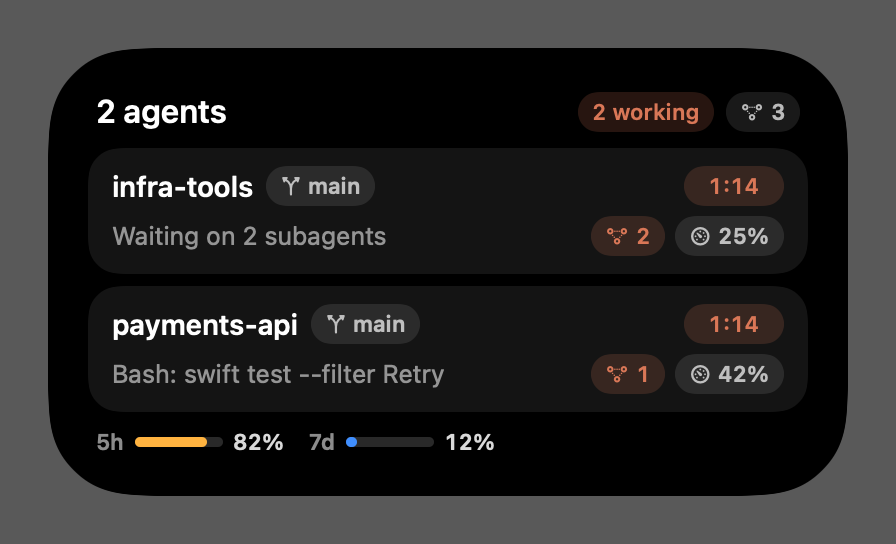
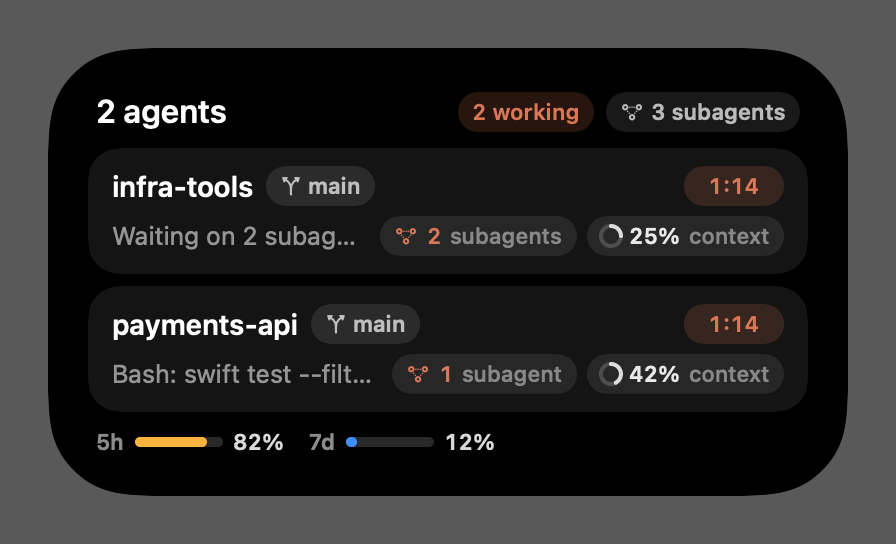
Labelled stat pills on the island; tooltips in the Sessions window
- Island stats are labelled pills (ring + "33% context", "2 subagents",
  "+12 −3 lines", "3 subagents" in the header), since Live Activities get
  no hover.
- Sessions window explains context, tokens, cost, lines, subagents and
  tool calls in tooltips with exact numbers.

diff --git a/Shared/IslandViews.swift b/Shared/IslandViews.swift
@@ -208,6 +208,53 @@ extension Badge where Label == Text {
     }
 }
 
+/// A labelled stat pill: an optional glyph, the value in bright type and what it measures in dim type, so the island
+/// explains itself without hover (Live Activities get no pointer events).
+struct Stat<Glyph: View, Value: View>: View {
+    var label: String
+    var tint: Color? = nil
+    @ViewBuilder var glyph: Glyph
+    @ViewBuilder var value: Value
+    var body: some View {
+        HStack(spacing: 4) {
+            glyph.foregroundStyle(tint ?? Color.white.opacity(0.6))
+            value.font(.system(size: 11, weight: .semibold)).foregroundStyle(tint ?? Color.white.opacity(0.9))
+            Text(label).font(.system(size: 11, weight: .medium)).foregroundStyle(Color.white.opacity(0.45))
+        }
+        .monospacedDigit().lineLimit(1)
+        .padding(.horizontal, 7).padding(.vertical, 3)
+        .background(Capsule().fill(Color.white.opacity(0.08)))
+        .fixedSize()
+    }
+}
+
+extension Stat where Value == Text {
+    init(value: String, label: String, tint: Color? = nil, @ViewBuilder glyph: () -> Glyph) {
+        self.init(label: label, tint: tint, glyph: glyph) { Text(value) }
+    }
+}
+
+extension Stat where Glyph == EmptyView {
+    init(label: String, tint: Color? = nil, @ViewBuilder value: () -> Value) {
+        self.init(label: label, tint: tint, glyph: { EmptyView() }, value: value)
+    }
+}
+
+/// A tiny progress ring, used for context-window fill.
+struct Ring: View {
+    let fraction: Double
+    let tint: Color
+    var size: CGFloat = 10
+    var body: some View {
+        ZStack {
+            Circle().stroke(Color.white.opacity(0.18), lineWidth: 2)
+            Circle().trim(from: 0, to: max(0.04, min(1, fraction))).stroke(tint, style: StrokeStyle(lineWidth: 2, lineCap: .round))
+                .rotationEffect(.degrees(-90))
+        }
+        .frame(width: size, height: size)
+    }
+}
+
 // MARK: - The featured request
 
 /// The most urgent request: who asks and what kind, the question with its choices or the command, and the answer
@@ -353,19 +400,26 @@ struct SessionRow: View {
                 Button(intent: MarkReviewedIntent(sessionId: row.id)) { Pill(title: "Reviewed", height: 24, stretch: false) }
             case .working, .idle:
                 if row.subagentTotal > 0 {
-                    Badge(
-                        "\(row.subagents > 0 ? row.subagents : row.subagentTotal)",
-                        tint: row.subagents > 0 ? Island.coral : nil, icon: "point.3.connected.trianglepath.dotted")
+                    let running = row.subagents > 0
+                    Stat(
+                        value: "\(running ? row.subagents : row.subagentTotal)",
+                        label: running ? (row.subagents == 1 ? "subagent" : "subagents") : "done",
+                        tint: running ? Island.coral : nil
+                    ) {
+                        Image(systemName: "point.3.connected.trianglepath.dotted").font(.system(size: 9, weight: .bold))
+                    }
                 }
                 if row.linesAdded + row.linesRemoved > 0 {
-                    Badge {
+                    Stat(label: "lines") {
                         Text("+\(row.linesAdded)").foregroundStyle(Island.green)
                             + Text(" −\(row.linesRemoved)").foregroundStyle(Island.red)
                     }
                 }
-                Badge(
-                    "\(Int(row.context * 100))%", tint: row.context > 0.65 ? Island.context(row.context) : nil,
-                    icon: "gauge.with.dots.needle.33percent")
+                // Neutral until the window is filling up (amber > 65 %, red > 85 %).
+                let full = row.context > 0.65
+                Stat(value: "\(Int(row.context * 100))%", label: "context", tint: full ? Island.context(row.context) : nil) {
+                    Ring(fraction: row.context, tint: full ? Island.context(row.context) : Color.white.opacity(0.8))
+                }
             }
         }
         .buttonStyle(.plain)
@@ -449,7 +503,9 @@ struct IslandTitle: View {
             if state.needsYou > 0 { Badge("\(state.needsYou) need\(state.needsYou == 1 ? "s" : "") you", tint: Island.amber) }
             if state.working > 0 { Badge("\(state.working) working", tint: Island.coral) }
             if state.subagentsRunning > 0 {
-                Badge("\(state.subagentsRunning)", icon: "point.3.connected.trianglepath.dotted")
+                Badge(
+                    "\(state.subagentsRunning) subagent\(state.subagentsRunning == 1 ? "" : "s")",
+                    icon: "point.3.connected.trianglepath.dotted")
             }
         }
     }

diff --git a/App/Views.swift b/App/Views.swift
@@ -312,9 +312,12 @@ struct SessionCard: View {
             VStack(alignment: .trailing, spacing: 1) {
                 if model.showCost {
                     Text(Fmt.cost(s.costUSD)).font(.system(size: 11.5, weight: .semibold))
-                    if !compact { Text("\(Fmt.tokens(s.usage.work)) tok").font(.system(size: 10.5)).foregroundStyle(.secondary) }
+                        .help("Estimated cost of this session at API prices.")
+                    if !compact {
+                        Text("\(Fmt.tokens(s.usage.work)) tok").font(.system(size: 10.5)).foregroundStyle(.secondary).help(tokenHelp)
+                    }
                 } else {
-                    Text("\(Fmt.tokens(s.usage.work)) tok").font(.system(size: 11.5, weight: .semibold))
+                    Text("\(Fmt.tokens(s.usage.work)) tok").font(.system(size: 11.5, weight: .semibold)).help(tokenHelp)
                 }
                 // This session's own subagents (the header carries the global count).
                 if !compact, let summary = s.subagentSummary {
@@ -323,9 +326,16 @@ struct SessionCard: View {
                         Text(summary).font(.system(size: 10))
                     }
                     .foregroundStyle(s.runningSubagents > 0 ? coral.opacity(0.95) : Color.green.opacity(0.85))
+                    .help("Subagents this session started: \(summary).")
                 }
             }.monospacedDigit()
         }
+    }
+
+    private var tokenHelp: String {
+        let u = s.usage
+        return "Tokens this session processed: \(Fmt.tokens(u.input)) input, \(Fmt.tokens(u.output)) output, "
+            + "\(Fmt.tokens(u.cacheWrite)) written to cache (cache reads not counted)."
     }
 
     private var activityLine: some View {
@@ -360,14 +370,24 @@ struct SessionCard: View {
 
     private var meta: some View {
         HStack(spacing: 8) {
-            ContextBar(fraction: s.contextFraction).frame(width: 64, height: 4)
-            Text("\(Int(s.contextFraction * 100))% ctx")
+            HStack(spacing: 8) {
+                ContextBar(fraction: s.contextFraction).frame(width: 64, height: 4)
+                Text("\(Int(s.contextFraction * 100))% context")
+            }
+            .help(
+                "Context window used: \(Fmt.tokens(s.contextTokens)) of \(Fmt.tokens(s.exactContextWindow ?? s.contextWindow)) tokens. "
+                    + "Claude Code compacts the conversation as this fills up.")
             if s.linesAdded + s.linesRemoved > 0 {
-                Text("+\(s.linesAdded)").foregroundStyle(.green.opacity(0.9))
-                Text("−\(s.linesRemoved)").foregroundStyle(.red.opacity(0.9))
+                HStack(spacing: 4) {
+                    Text("+\(s.linesAdded)").foregroundStyle(.green.opacity(0.9))
+                    Text("−\(s.linesRemoved)").foregroundStyle(.red.opacity(0.9))
+                }
+                .help("Lines added and removed by this session's edits: \(s.linesAdded) added, \(s.linesRemoved) removed.")
             }
             Spacer(minLength: 0)
-            if s.toolCalls > 0 { Text("\(s.toolCalls) tool calls") }
+            if s.toolCalls > 0 {
+                Text("\(s.toolCalls) tool calls").help("Tools this session has run (Bash, Edit, Read, …) since it started.")
+            }
         }
         .font(.system(size: 10.5)).foregroundStyle(.secondary).monospacedDigit()
     }
